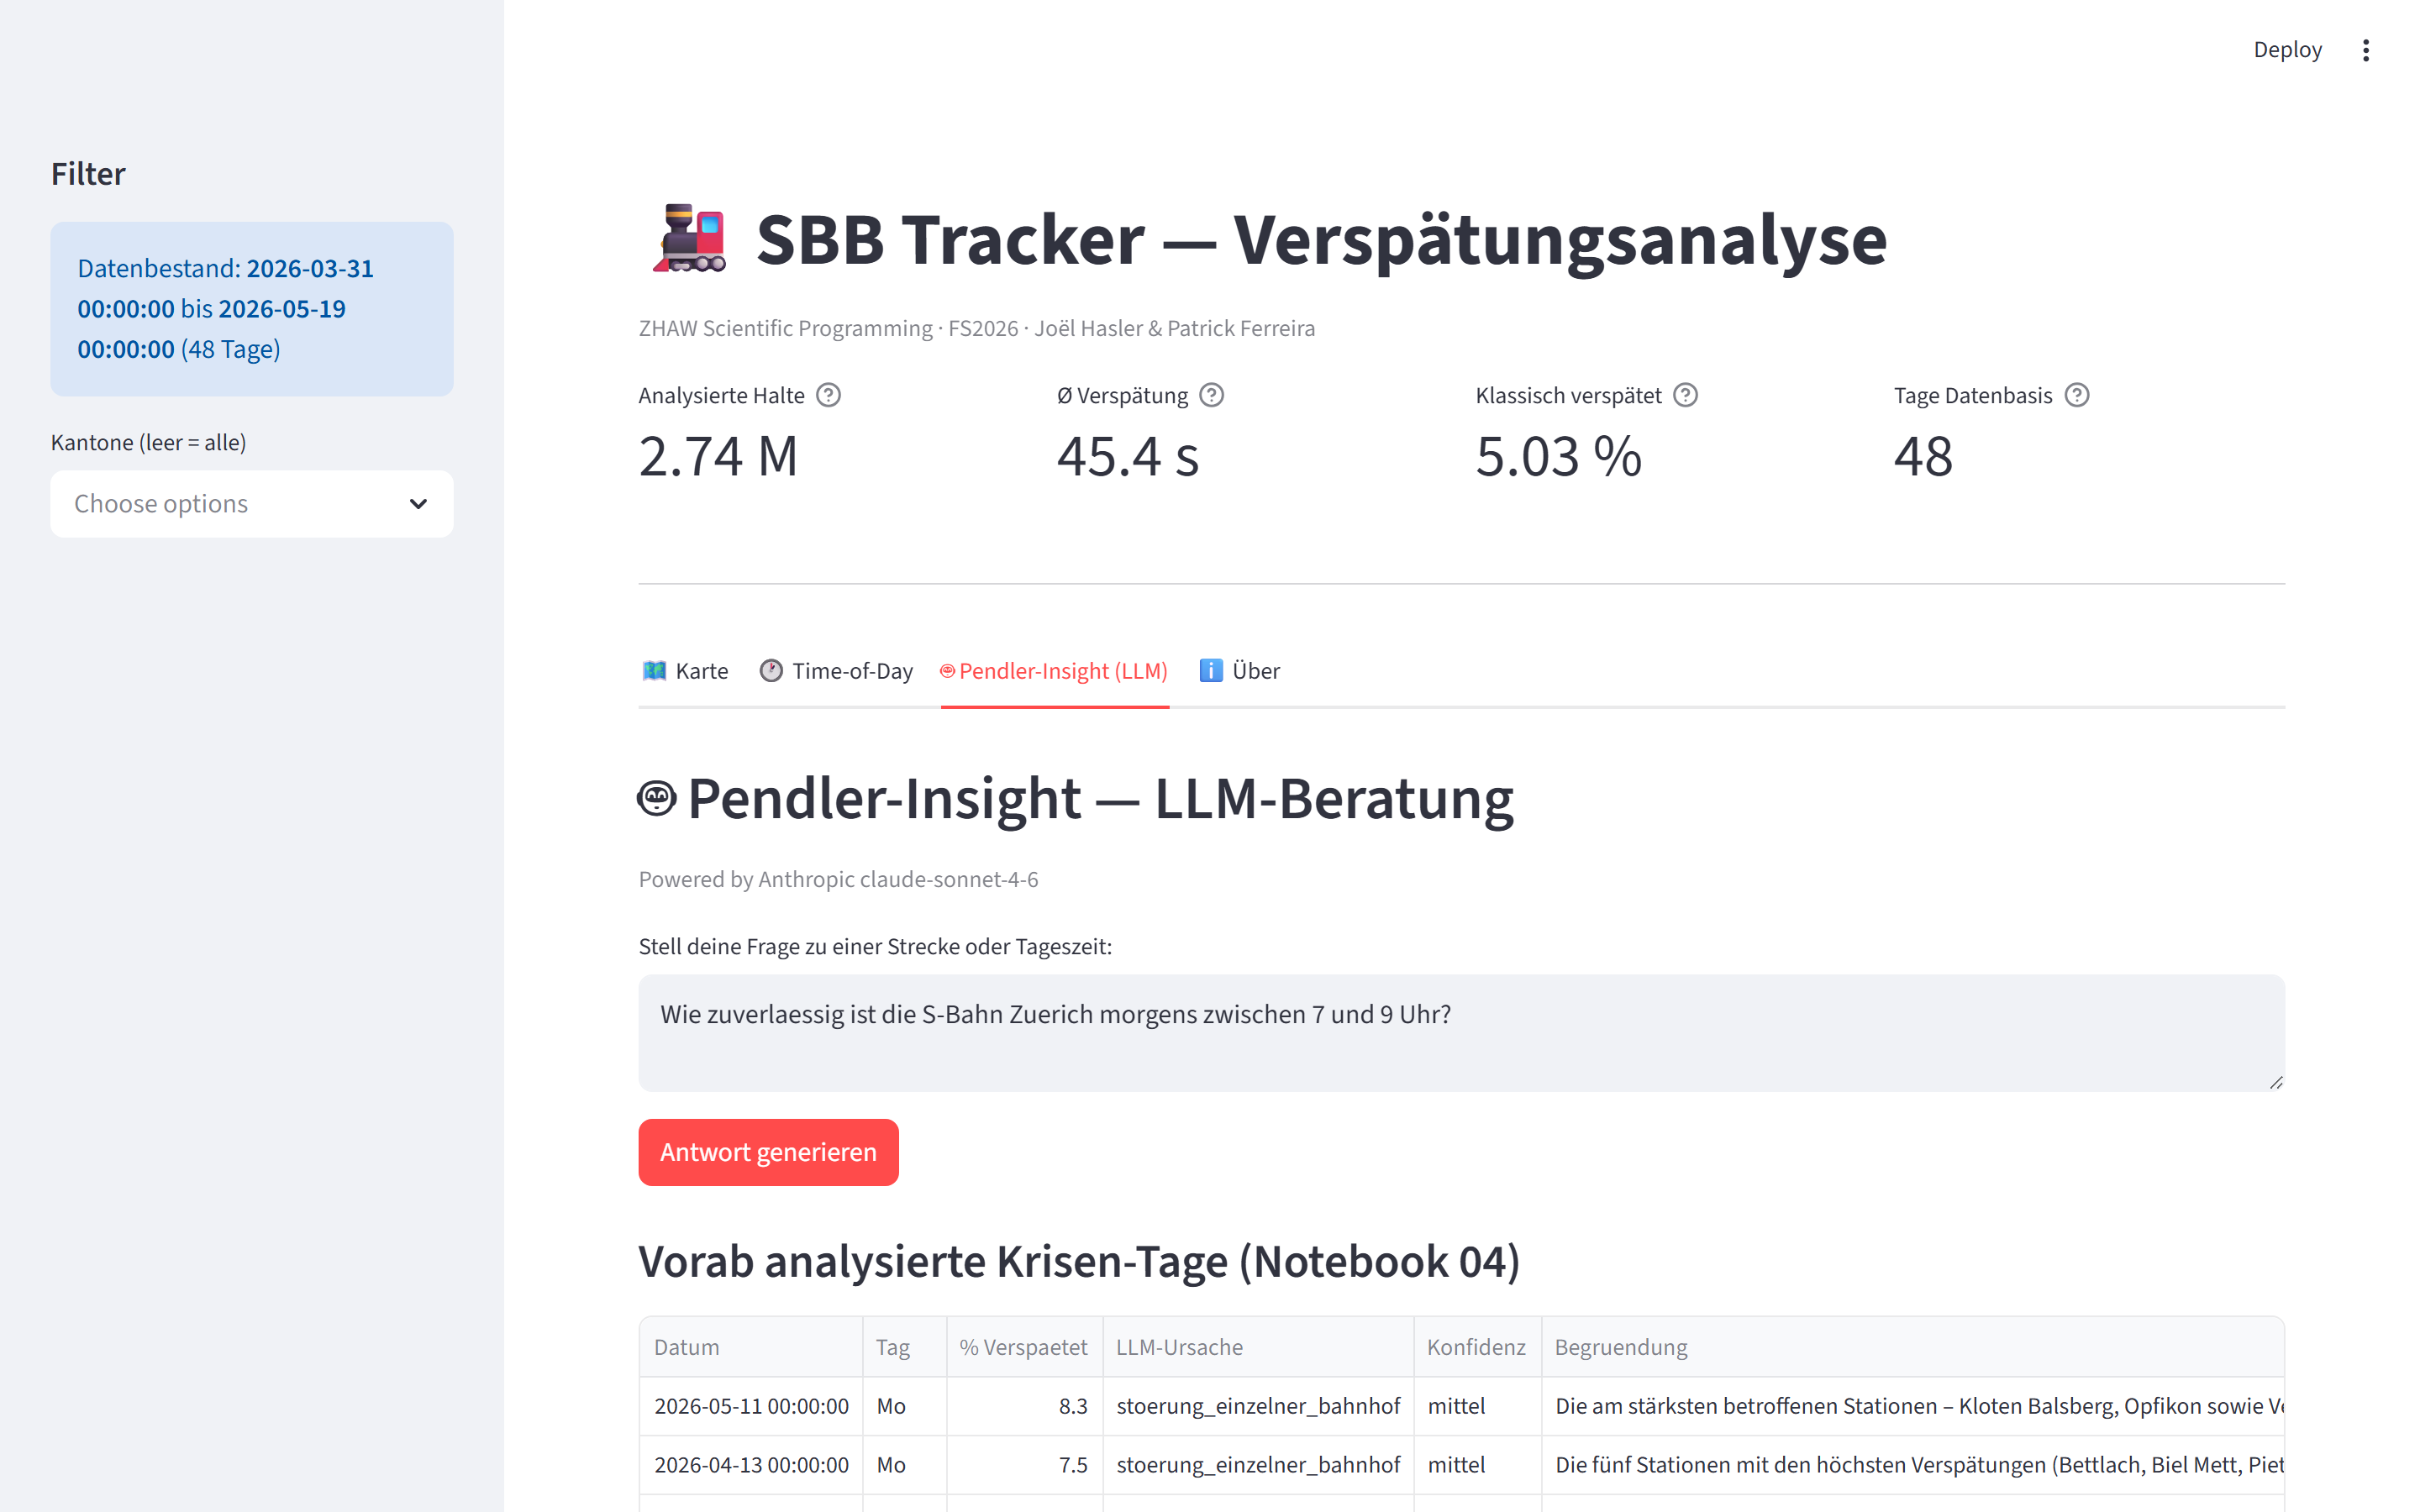
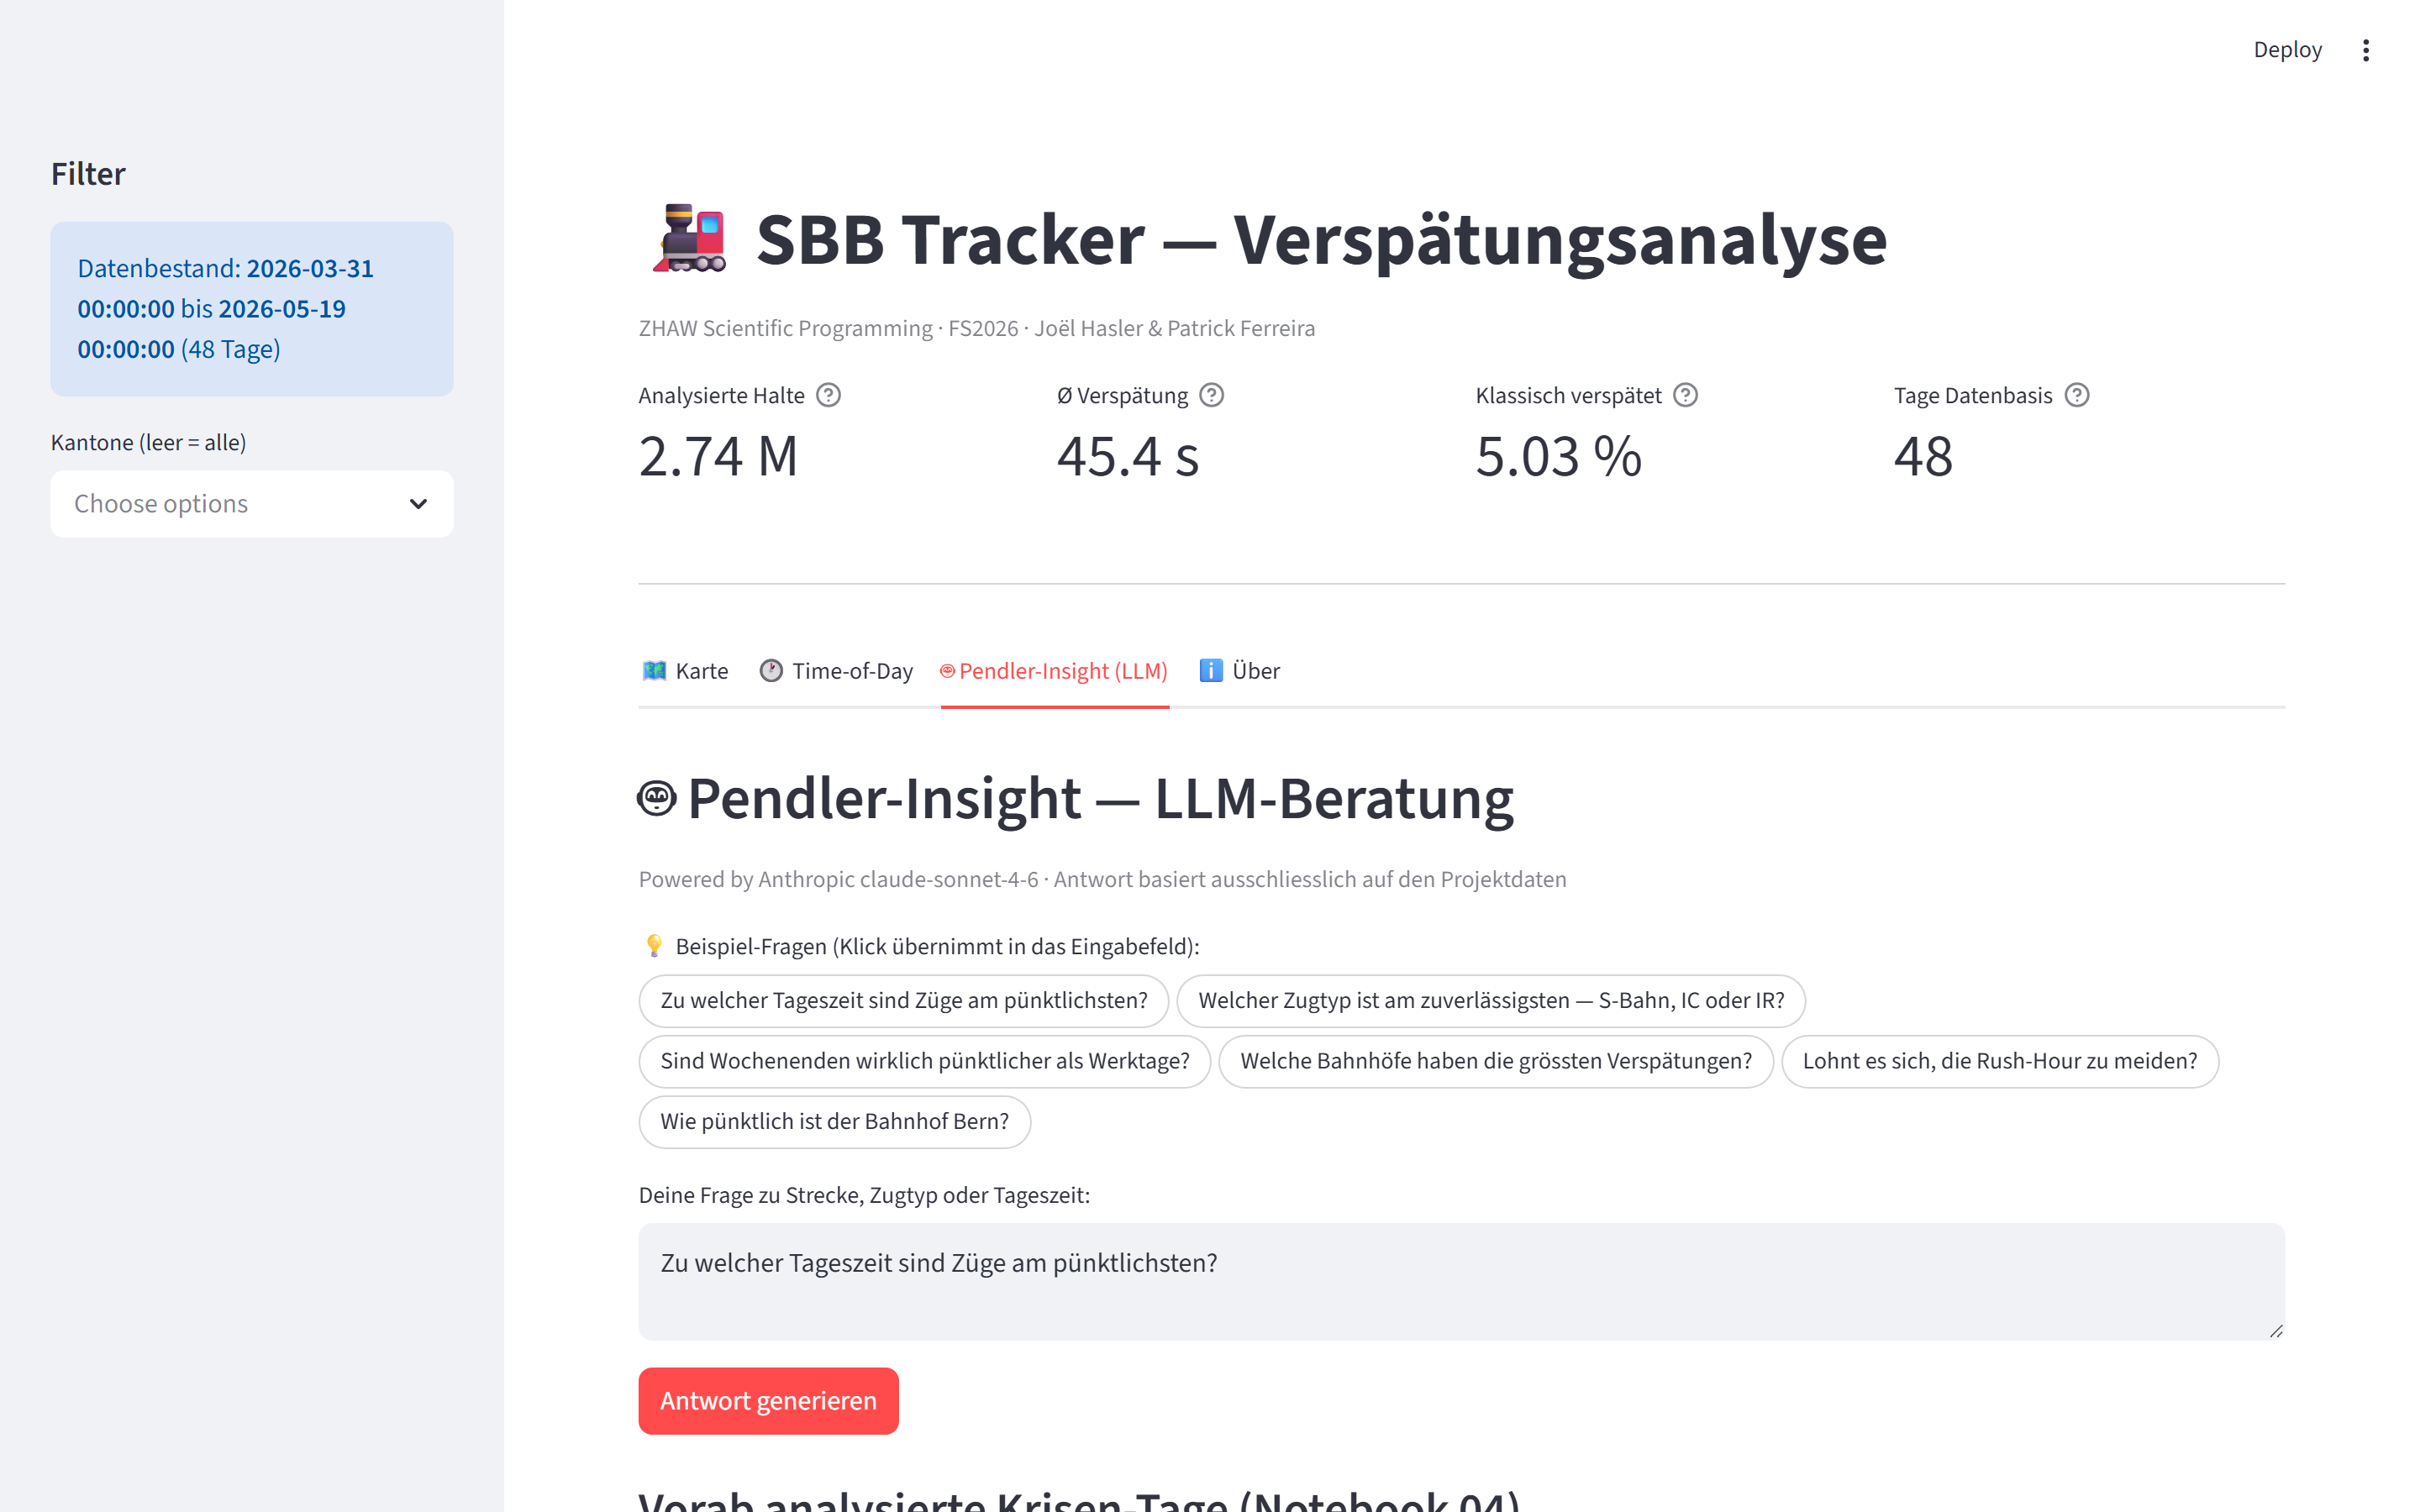
feat(webapp): richer LLM context + clickable example-question pills
Pendler-Insight-Tab Verbesserungen nach User-Review:

1. Reicherer Daten-Kontext (build_llm_context):
   - Stündliche Verspätung (alle 24 Stunden) → Tageszeit-Fragen beantwortbar
   - Pro Verkehrsmittel-Typ (S/IC/IR/RE/...) → Zugtyp-Fragen beantwortbar
   - Frage-relevante Bahnhöfe via Keyword-Match (z.B. "Bern" → Bern-Stationen)
   - Vorher: nur Gesamt-Aggregate → Default-Frage unbeantwortbar

2. Klickbare Beispiel-Fragen als st.pills (6 Bubbles), Klick füllt Eingabefeld
   via session_state + on_change-Callback

3. Transparenz-Expander "Welche Daten hat Claude gesehen?" zeigt den Kontext

System-Prompt geschärft: konkrete Zahlen nennen, ehrlich sagen was die Daten
nicht hergeben, niemals Linien/Bahnhöfe erfinden.

diff --git a/app/streamlit_app.py b/app/streamlit_app.py
@@ -224,13 +224,129 @@ with tab_tod:
 
 
 # === TAB 3: Pendler-Insight (LLM) ===
+EXAMPLE_QUESTIONS = [
+    "Zu welcher Tageszeit sind Züge am pünktlichsten?",
+    "Welcher Zugtyp ist am zuverlässigsten — S-Bahn, IC oder IR?",
+    "Sind Wochenenden wirklich pünktlicher als Werktage?",
+    "Welche Bahnhöfe haben die grössten Verspätungen?",
+    "Lohnt es sich, die Rush-Hour zu meiden?",
+    "Wie pünktlich ist der Bahnhof Bern?",
+]
+DEFAULT_Q = EXAMPLE_QUESTIONS[0]
+
+# Deutsche Stoppwörter, die bei der Bahnhof-Keyword-Suche ignoriert werden
+_STOPWORDS = {
+    "wie", "welche", "welcher", "welches", "sind", "wirklich", "haben", "fahren",
+    "lohnt", "vermeiden", "meiden", "zwischen", "morgens", "abends", "mittags",
+    "nachts", "puenktlich", "pünktlich", "zuverlaessig", "zuverlässig", "tageszeit",
+    "zugtyp", "bahn", "bahnhof", "bahnhoefe", "bahnhöfe", "groessten", "grössten",
+    "verspaetung", "verspätung", "verspaetungen", "verspätungen", "wochenende",
+    "wochenenden", "werktage", "werktag", "rush", "hour", "zuege", "züge", "zug",
+    "der", "die", "das", "und", "oder", "als", "wenn", "denn", "auch", "noch",
+}
+
+
+def _apply_example():
+    picked = st.session_state.get("example_pills")
+    if picked:
+        st.session_state.q_text = picked
+
+
+def build_llm_context(df: pd.DataFrame, question: str) -> str:
+    """Reichhaltiger Datenkontext: gesamt + stündlich + pro Zugtyp + Frage-relevante Bahnhöfe."""
+    import re
+
+    n_total = len(df)
+    mean_delay = df["delay_arr_sec"].mean()
+    pct_late = df["is_late_3min"].mean() * 100
+    rush_mean = df.loc[df["is_rush_hour"], "delay_arr_sec"].mean()
+    off_mean = df.loc[~df["is_rush_hour"], "delay_arr_sec"].mean()
+    we_mean = df.loc[df["is_weekend"].astype(bool), "delay_arr_sec"].mean()
+    wt_mean = df.loc[~df["is_weekend"].astype(bool), "delay_arr_sec"].mean()
+
+    # Stündliche Verspätung (alle 24 Stunden)
+    hourly = df.groupby("hour")["delay_arr_sec"].mean().round(0)
+    hourly_str = ", ".join(f"{int(h)}h={int(v)}s" for h, v in hourly.items())
+
+    # Pro Verkehrsmittel-Typ (sortiert, nur mit genug Daten)
+    by_type = (df.groupby("verkehrsmittel_text")["delay_arr_sec"]
+               .agg(["mean", "count"]).query("count >= 100")
+               .sort_values("mean").round(1))
+    type_str = "\n".join(
+        f"  {typ}: {row['mean']:.1f}s (n={int(row['count']):,})"
+        for typ, row in by_type.iterrows()
+    )
+
+    # Top-5 schlimmste Bahnhöfe gesamt
+    top5_late = (df.groupby("haltestellen_name")["delay_arr_sec"]
+                 .agg(["mean", "count"]).query("count >= 500")
+                 .sort_values("mean", ascending=False).head(5).round(1))
+    top5_str = "\n".join(
+        f"  {name}: {row['mean']:.1f}s (n={int(row['count']):,})"
+        for name, row in top5_late.iterrows()
+    )
+
+    # Frage-relevante Bahnhöfe via Keyword-Match
+    keywords = [w for w in re.findall(r"[a-zäöüA-ZÄÖÜ]{4,}", question.lower())
+                if w not in _STOPWORDS]
+    station_block = ""
+    if keywords:
+        pattern = "|".join(re.escape(k) for k in keywords)
+        matched = df[df["haltestellen_name"].str.lower()
+                     .str.contains(pattern, na=False, regex=True)]
+        if len(matched) > 0:
+            matched_agg = (matched.groupby("haltestellen_name")["delay_arr_sec"]
+                           .agg(["mean", "count"]).query("count >= 30")
+                           .sort_values("count", ascending=False).head(8).round(1))
+            if len(matched_agg) > 0:
+                station_block = "\n\nZur Frage passende Bahnhöfe (Keyword-Match):\n" + "\n".join(
+                    f"  {name}: {row['mean']:.1f}s (n={int(row['count']):,})"
+                    for name, row in matched_agg.iterrows()
+                )
+
+    llm_reasons = load_llm_reasons()
+    worst_days = ""
+    if not llm_reasons.empty:
+        worst_days = "\n\nTop-5 Krisen-Tage (LLM-Hypothese):\n" + llm_reasons[
+            ["datum", "wochentag", "pct_late_3min", "llm_ursache"]
+        ].head(5).to_string(index=False)
+
+    return f"""Datenbasis SBB-Verspätungen {df['betriebstag'].min()} bis {df['betriebstag'].max()} ({df['betriebstag'].nunique()} Tage):
+- {n_total:,} Halte (Zug + SBB-only, Status REAL)
+- Mittlere Ankunftsverspätung gesamt: {mean_delay:.1f}s
+- Anteil >3 Min verspätet: {pct_late:.2f}%
+- Werktag {wt_mean:.1f}s vs Wochenende {we_mean:.1f}s
+- Rush-Hour {rush_mean:.1f}s vs Off-Peak {off_mean:.1f}s
+
+Mittlere Verspätung pro Stunde (0-23h):
+  {hourly_str}
+
+Mittlere Verspätung pro Zugtyp (aufsteigend):
+{type_str}
+
+Top-5 unpünktlichste Bahnhöfe gesamt:
+{top5_str}{station_block}{worst_days}"""
+
+
 with tab_insight:
     st.header("🤖 Pendler-Insight — LLM-Beratung")
-    st.caption(f"Powered by Anthropic {MODEL_NAME}")
+    st.caption(f"Powered by Anthropic {MODEL_NAME}  ·  Antwort basiert ausschliesslich "
+               "auf den Projektdaten")
+
+    if "q_text" not in st.session_state:
+        st.session_state.q_text = DEFAULT_Q
+
+    st.pills(
+        "💡 Beispiel-Fragen (Klick übernimmt in das Eingabefeld):",
+        EXAMPLE_QUESTIONS,
+        selection_mode="single",
+        key="example_pills",
+        on_change=_apply_example,
+    )
 
     insight_q = st.text_area(
-        "Stell deine Frage zu einer Strecke oder Tageszeit:",
-        value="Wie zuverlaessig ist die S-Bahn Zuerich morgens zwischen 7 und 9 Uhr?",
+        "Deine Frage zu Strecke, Zugtyp oder Tageszeit:",
+        key="q_text",
         height=80,
     )
 
@@ -238,48 +354,21 @@ with tab_insight:
         from anthropic import Anthropic
         client = Anthropic()
 
-        # Kontext aus den Daten erstellen
-        n_total = len(df)
-        mean_delay = df["delay_arr_sec"].mean()
-        pct_late = df["is_late_3min"].mean() * 100
-        rush_mean = df.loc[df["is_rush_hour"], "delay_arr_sec"].mean()
-        off_mean = df.loc[~df["is_rush_hour"], "delay_arr_sec"].mean()
+        context = build_llm_context(df, insight_q)
 
-        top5_late = (df.groupby("haltestellen_name")["delay_arr_sec"]
-                     .agg(["mean", "count"])
-                     .query("count >= 500")
-                     .sort_values("mean", ascending=False)
-                     .head(5))
-
-        llm_reasons = load_llm_reasons()
-        worst_days_summary = ""
-        if not llm_reasons.empty:
-            worst_days_summary = llm_reasons[["datum", "wochentag",
-                                              "pct_late_3min", "llm_ursache"]].head(5).to_string(index=False)
-
-        context = f"""Datenbasis SBB-Verspaetungen vom {df['betriebstag'].min()} bis {df['betriebstag'].max()}:
-- {n_total:,} Verspaetungs-Events (Zug + SBB-only, Status REAL)
-- Mean Ankunftsverspaetung: {mean_delay:.1f} s
-- Anteil klassisch verspaetet (>3 Min): {pct_late:.2f}%
-- Rush-Hour Mean Delay: {rush_mean:.1f} s
-- Off-Peak Mean Delay: {off_mean:.1f} s
-
-Top-5 Bahnhoefe mit hoechster mittlerer Verspaetung:
-{top5_late.to_string()}
-
-Top-5 schlimmste Tage mit LLM-hypothetisierter Ursache:
-{worst_days_summary if worst_days_summary else "(keine LLM-Analyse vorhanden)"}"""
-
-        with st.spinner("Claude denkt nach..."):
+        with st.spinner("Claude analysiert die Daten..."):
             msg = client.messages.create(
                 model=MODEL_NAME,
                 max_tokens=600,
                 temperature=0.3,
                 system=(
-                    "Du bist ein freundlicher Pendler-Berater fuer den oeffentlichen Verkehr in der Schweiz. "
-                    "Du antwortest immer in deutscher Sprache, kompakt (max 4 Saetze) und basiert AUSSCHLIESSLICH "
-                    "auf den unten gelieferten statistischen Daten. Wenn die Daten die Frage nicht beantworten "
-                    "koennen, sag das ehrlich. Du erfindest KEINE Zahlen oder Linien."
+                    "Du bist ein freundlicher Pendler-Berater für den öffentlichen Verkehr "
+                    "in der Schweiz. Du antwortest immer auf Deutsch, kompakt (max 4 Sätze) "
+                    "und stützt dich AUSSCHLIESSLICH auf die unten gelieferten statistischen "
+                    "Daten. Nenne konkrete Zahlen aus den Daten. Wenn die Daten die Frage nicht "
+                    "exakt beantworten (z.B. eine spezifische Linie fehlt), sag ehrlich was du "
+                    "aus den vorhandenen Daten ableiten kannst und was nicht. Du erfindest NIEMALS "
+                    "Zahlen, Linien oder Bahnhöfe, die nicht im Kontext stehen."
                 ),
                 messages=[{
                     "role": "user",
@@ -293,6 +382,9 @@ Top-5 schlimmste Tage mit LLM-hypothetisierter Ursache:
         st.success(answer)
         st.caption(f"Tokens: {msg.usage.input_tokens} input / {msg.usage.output_tokens} output  "
                    f"· Kosten: ${cost:.4f}")
+
+        with st.expander("🔍 Welche Daten hat Claude gesehen? (Transparenz)"):
+            st.code(context, language="text")
 
     # Anzeige der vorab analysierten Krisen-Tage
     if not load_llm_reasons().empty: